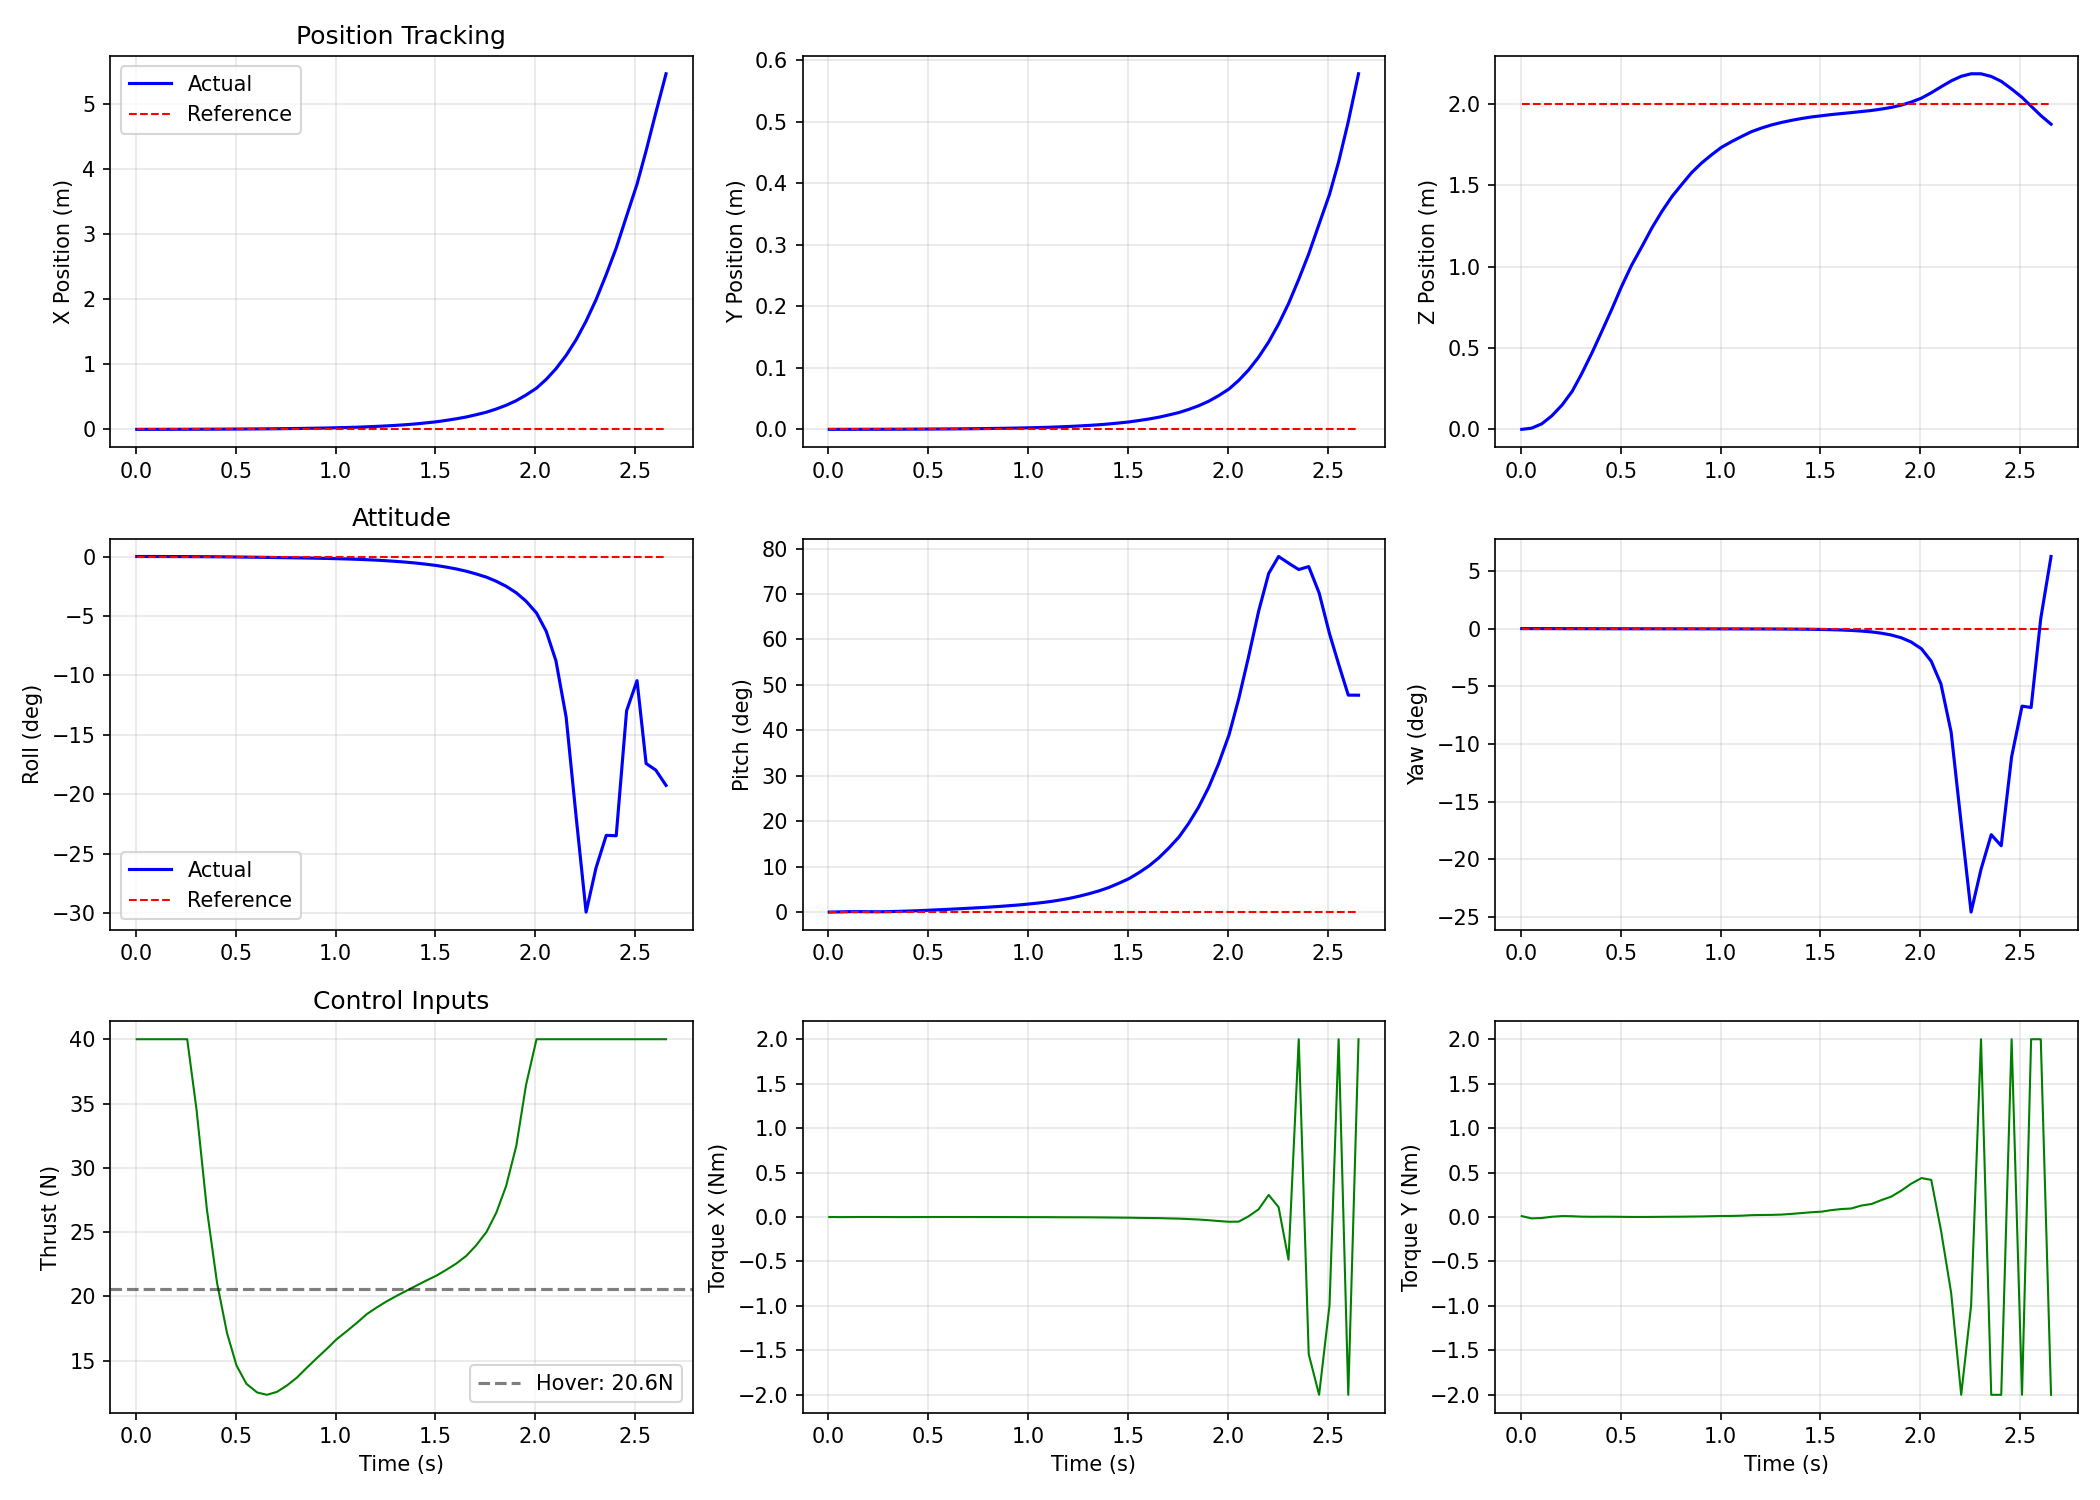
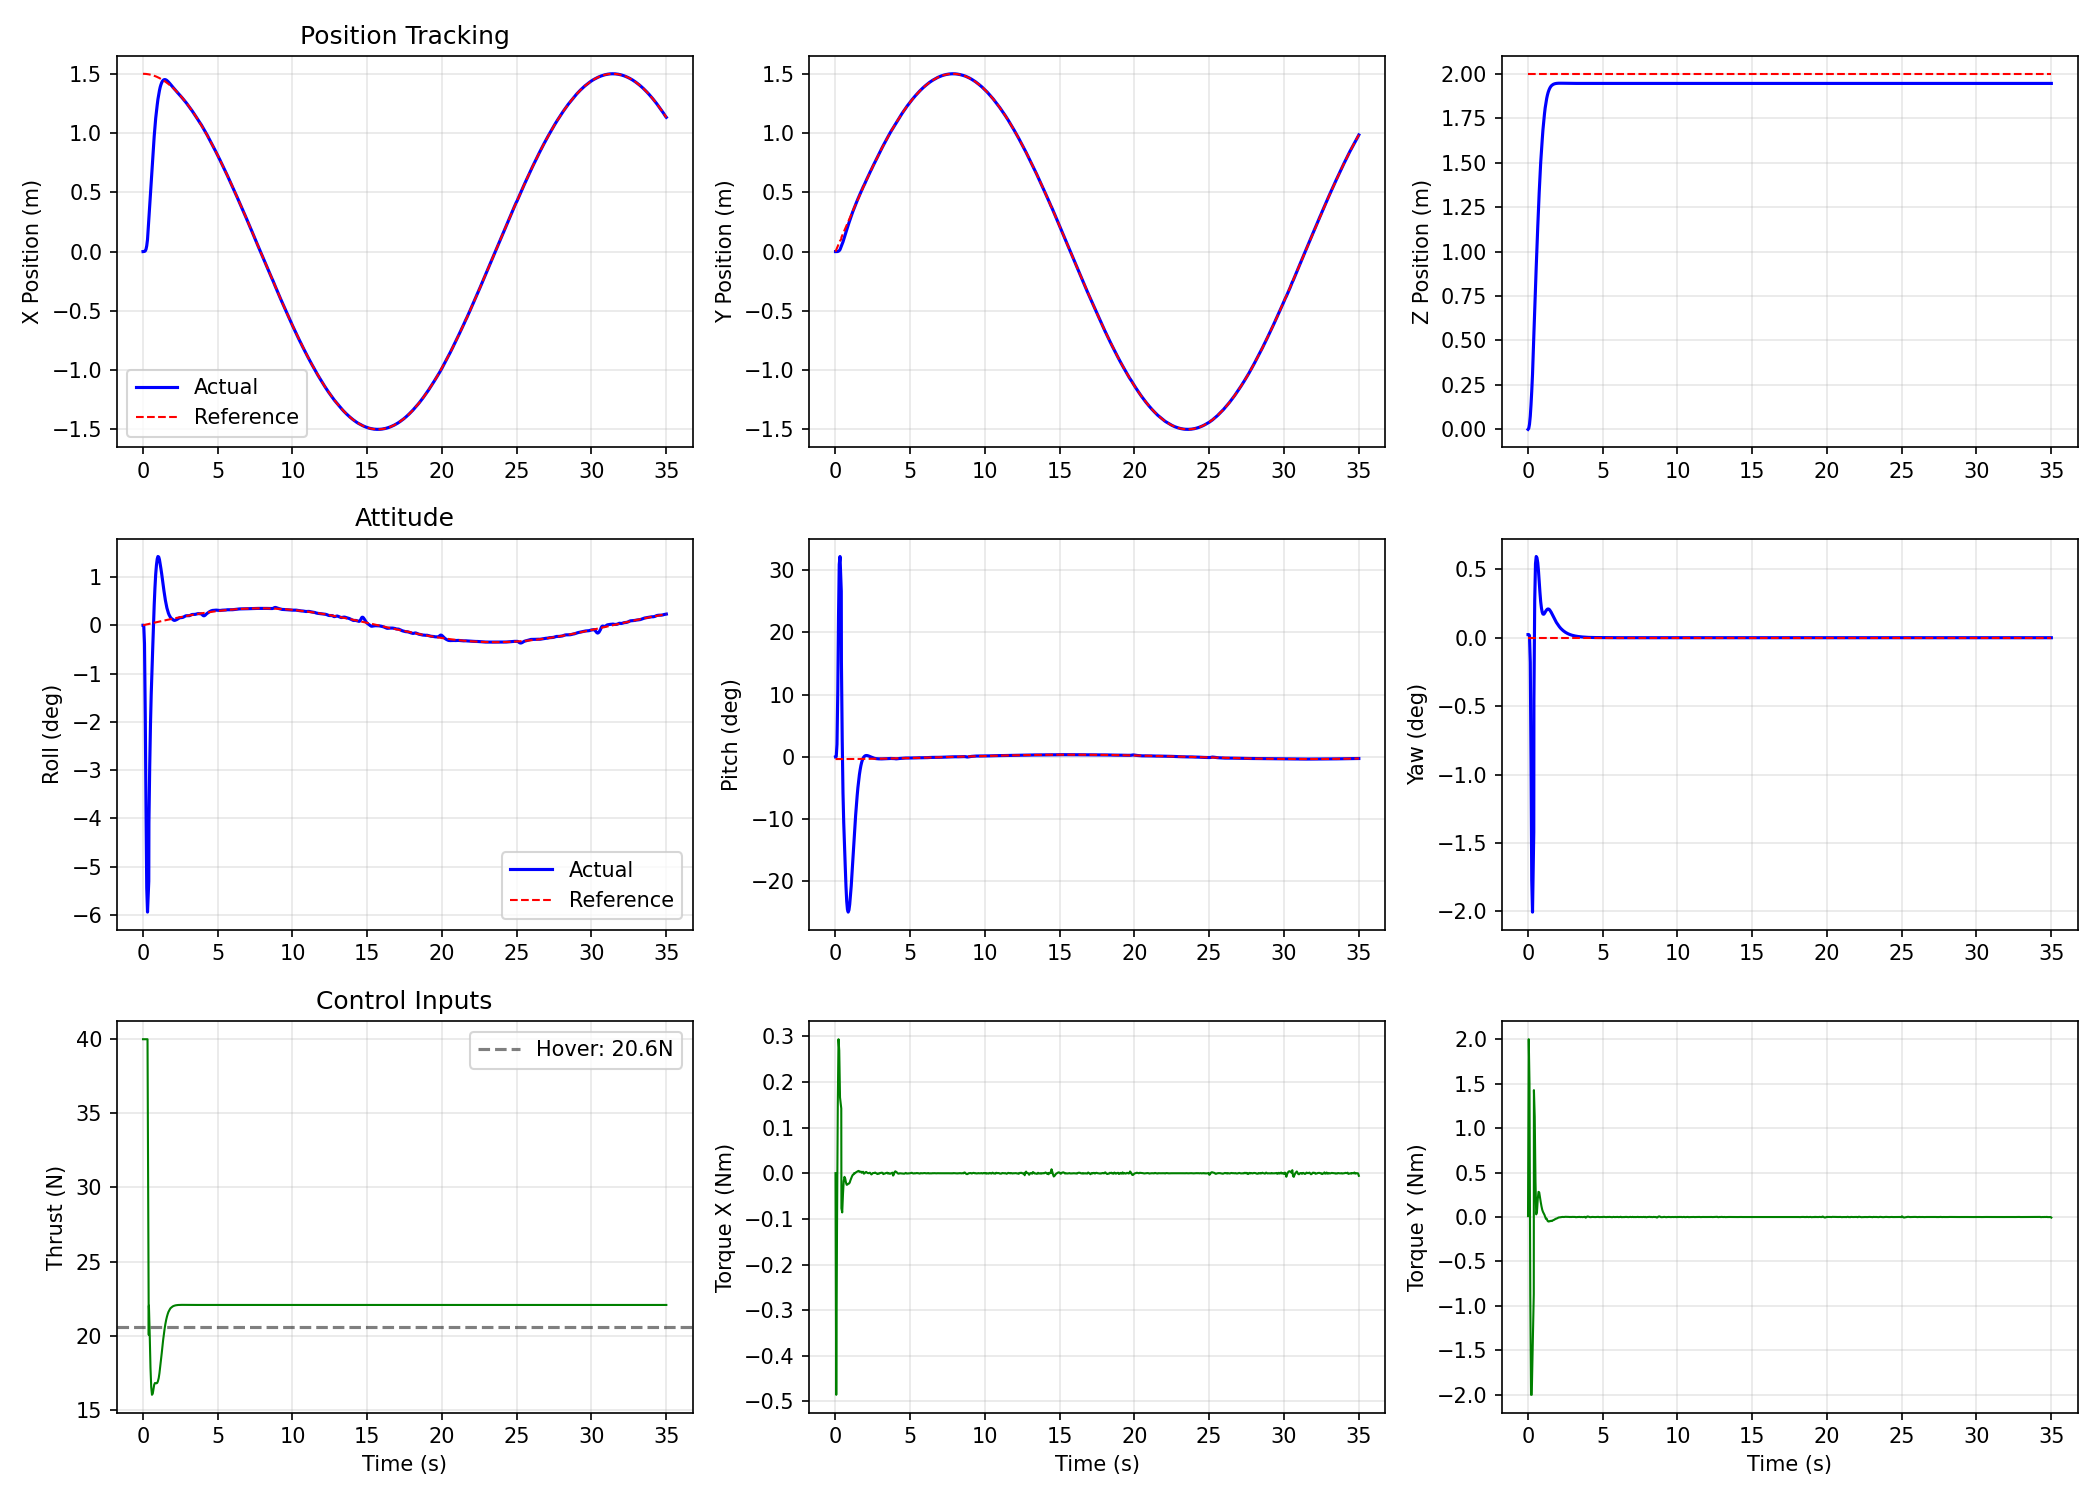
ef mpc needs more adjustment

diff --git a/scripts/mpc_controller_ef.py b/scripts/mpc_controller_ef.py
@@ -260,7 +260,7 @@ class MPCControllerEF(Node):
             'Q_arm_vel': 1.0,
             # Direct EE penalty weights (used when cost_mode='ee')
             'Q_ee_pos': 50.0,
-            'Q_level': 5.0,
+            'Q_level': 2.0,
             'Q_arm_pos_ee': 0.5,
             'Q_arm_vel_ee': 0.2,
             'R_thrust': 0.01,
@@ -348,7 +348,7 @@ class MPCControllerEF(Node):
         self.get_logger().info(f'Cost mode: {self.cost_mode}')
         self.get_logger().info('Arm mode: ACTIVE (end-effector tracking)')
         self.get_logger().info('Commands: start [mode], stop, plot, stats, quit')
-        self.get_logger().info('EE Modes: hover, circle, line, reach')
+        self.get_logger().info('EE Modes: hover, circle, line, vertical, reach, forest')
         self.get_logger().info('=' * 50)
     
     def imu_callback(self, msg: Imu):
@@ -465,6 +465,18 @@ class MPCControllerEF(Node):
             else:
                 x_offset = 0.2
             ee_world_ref = ee_default + np.array([x_offset, 0.0, 0.0])
+
+        elif self.trajectory_mode == 'forest':
+            # Wind forward like a trail in a forest:
+            # - advance forward in +X
+            # - weave in Y with a sinusoid
+            # - keep EE height nearly constant (no Z oscillation)
+            forward_speed = float(self.trajectory_speed)  # m/s
+            wavelength = 0.6  # m, lateral weave wavelength along the path
+            omega = 2.0 * np.pi * forward_speed / max(wavelength, 1e-3)
+            x_offset = forward_speed * t
+            y_offset = float(self.trajectory_radius) * np.sin(omega * t)
+            ee_world_ref = ee_default + np.array([x_offset, y_offset, 0.0])
             
         else:
             ee_world_ref = ee_default
@@ -805,11 +817,11 @@ def main(args=None):
                 if cmd.startswith('start'):
                     parts = cmd.split()
                     mode = parts[1] if len(parts) > 1 else 'hover'
-                    if mode in ['hover', 'circle', 'line', 'vertical', 'reach']:
+                    if mode in ['hover', 'circle', 'line', 'vertical', 'reach', 'forest']:
                         controller.start_trajectory(mode)
                     else:
                         print(f"Unknown mode: {mode}")
-                        print("Available: hover, circle, line, vertical, reach")
+                        print("Available: hover, circle, line, vertical, reach, forest")
                     
                 elif cmd == 'stop':
                     controller.stop()

diff --git a/launch/fanci_view_model.launch.py b/launch/fanci_view_model.launch.py
@@ -1,0 +1,61 @@
+from launch import LaunchDescription
+from launch.actions import DeclareLaunchArgument
+from launch.conditions import IfCondition
+from launch.substitutions import LaunchConfiguration
+from launch_ros.actions import Node
+from ament_index_python.packages import get_package_share_directory
+import os
+
+
+def generate_launch_description():
+
+    pkg_path = get_package_share_directory('am_description')
+    urdf_path = os.path.join(pkg_path, 'urdf', 'FanciSwarmPro-URDF.urdf')
+
+    use_jsp_gui = LaunchConfiguration('use_jsp_gui')
+    rviz_config = LaunchConfiguration('rviz_config')
+
+    # Read URDF file
+    with open(urdf_path, 'r') as file:
+        robot_description = file.read()
+
+    # Robot State Publisher
+    robot_state_publisher = Node(
+        package='robot_state_publisher',
+        executable='robot_state_publisher',
+        parameters=[{'robot_description': robot_description}],
+        output='screen',
+    )
+
+    # Joint State Publisher GUI (optional; useful only if URDF has movable joints)
+    joint_state_publisher_gui = Node(
+        package='joint_state_publisher_gui',
+        executable='joint_state_publisher_gui',
+        output='screen',
+        condition=IfCondition(use_jsp_gui),
+    )
+
+    # RViz
+    rviz = Node(
+        package='rviz2',
+        executable='rviz2',
+        arguments=['-d', rviz_config],
+        output='screen',
+        on_exit=None,
+    )
+
+    return LaunchDescription([
+        DeclareLaunchArgument(
+            'use_jsp_gui',
+            default_value='false',
+            description='Start joint_state_publisher_gui (only needed for URDF with joints).',
+        ),
+        DeclareLaunchArgument(
+            'rviz_config',
+            default_value=os.path.join(pkg_path, 'config', 'view_model.rviz'),
+            description='RViz config file',
+        ),
+        robot_state_publisher,
+        joint_state_publisher_gui,
+        rviz,
+    ])

diff --git a/README.md b/README.md
@@ -2,13 +2,42 @@
 
 A ROS 2 package for simulating an aerial manipulator system in Gazebo.
 
+
+## Table of Contents
+- [Logs](#logs)
+- [Dependencies](#dependencies)
+- [Installation](#installation)
+- [Basic Usage](#basic-usage)
+  - [Launch the Simulation](#launch-the-simulation)
+  - [Using the Drone Controller Script](#using-the-drone-controller-script)
+  - [Using the Trajectory Controller](#using-the-trajectory-controller)
+  - [Using the Arm Controller](#using-the-arm-controller)
+- [MPC Controllers](#mpc-controllers)
+  - [Standard MPC (scipy-based)](#standard-mpc-scipy-based)
+  - [Acados MPC (full system)](#acados-mpc-full-system)
+  - [Acados MPC Base (quadrotor only)](#acados-mpc-base-quadrotor-only)
+  - [Acados MPC End-Effector (EE tracking)](#acados-mpc-end-effector-ee-tracking)
+- [Other terminal usage](#other-terminal-usage)
+  - [Control the Drone (Thrust)](#control-the-drone-thrust)
+  - [Control the Arm Joints](#control-the-arm-joints)
+  - [View Joint States](#view-joint-states)
+  - [Check Controllers](#check-controllers)
+- [Package Structure](#package-structure)
+- [Controllers](#controllers)
+- [URDF Details](#urdf-details)
+  - [Links](#links)
+  - [Joints](#joints)
+  - [Gazebo Plugins](#gazebo-plugins)
+- [Physical Parameters](#physical-parameters)
+
+
 ## Logs
 
 TODO
 
-1. check acados controller error
+- implement dynamic model
 
-2. modify dynamic model
+- optimize MPC penalize
 
 
 ## Dependencies
@@ -25,7 +54,7 @@ TODO
 1. Clone this package into your ROS 2 workspace:
 ```bash
 cd ~/am_ws/src
-git clone <repository_url> am_description
+git clone <repository_url>
 ```
 
 2. Install dependencies:
@@ -162,7 +191,28 @@ ros2 run am_description mpc_base_controller.py
 Commands: `start <mode>`, `stop`, `plot`, `stats`, `quit`  
 Modes: `hover`, `circle`, `square`, `figure8`, `takeoff`, `up`
 
+### Acados MPC End-Effector (EE tracking)
 
+Whole-body MPC that tracks an end-effector (EE) trajectory by controlling both the base (thrust + torques) and the arm joints.
+
+```bash
+ros2 run am_description mpc_controller_ef.py
+```
+
+Commands: `start <mode>`, `stop`, `status`, `stats`, `plot`, `quit`  
+Modes: `hover`, `circle`, `line`, `vertical`, `reach`, `forest`
+
+Notes:
+- `cost_mode` parameter selects the MPC cost formulation:
+  - `ik`: EE tracking via IK to joint references (linear LS on state/input)
+  - `ee`: direct EE position penalty (nonlinear LS)
+- In simulation, you may want to disable ground-truth override if your sim does not publish a GT odometry topic: set `use_ground_truth:=false`.
+
+MPC details [README](am_description/mpc_ef/README.md)
+
+<p align="center">
+  <img src="fig/mpc_ef_results_ee_gt.png" width="90%">
+</p>
 
 ## Other terminal usage
 
